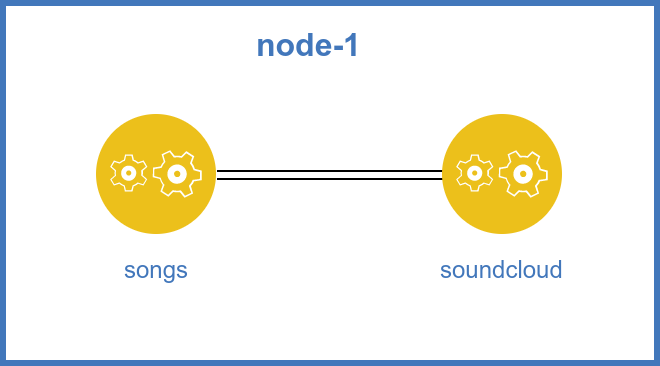
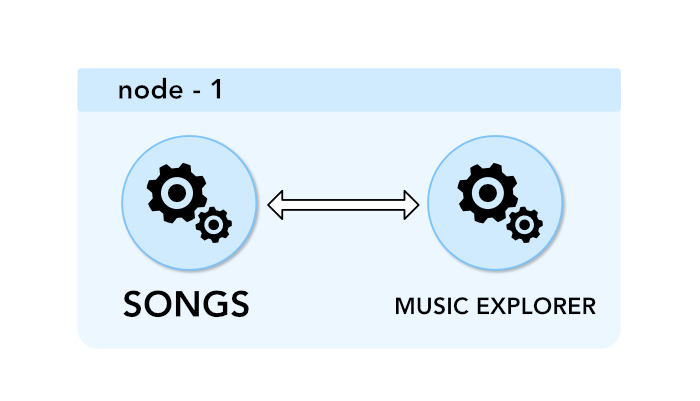
added final thoughts

diff --git a/presentation/index.js b/presentation/index.js
@@ -32,7 +32,6 @@ import { Diagram } from '../components';
 
 // Require CSS
 require('normalize.css');
-require('spectacle/lib/themes/default/index.css');
 
 const images = {
   molecules: require('../assets/8803.jpg'),
@@ -43,17 +42,28 @@ const images = {
   mono: require('../assets/mono.png'),
   showme: require('../assets/show-me.png'),
   distributed: require('../assets/distributed.png'),
-  whatIsThat: require('../assets/what-is-that.gif')
+  whatIsThat: require('../assets/what-is-that.gif'),
+  musicExplorer: require('../assets/music-explorer.png'),
+  gateway: require('../assets/gateway.png'),
+  take: require('../assets/take.png'),
+  desc: require('../assets/desc.png')
 };
 
 preloader(images);
 
-const theme = createTheme();
+const theme = createTheme(null, {
+  global: {
+    body: { fontSize: '2em' },
+    '_:-moz-tree-row(hover), .spectacle-deck': {
+      perspective: '1200px'
+    }
+  }
+});
 
 export default class Presentation extends React.Component {
   render() {
     return (
-      <Deck transition={['slide']} transitionDuration={300} theme={theme} progress="none">
+      <Deck transition={['slide']} transitionDuration={300} theme={theme} progress="none" contentWidth={1200}>
         <Slide bgColor="white">
           <Image src={images.banner} />
         </Slide>
@@ -106,13 +116,13 @@ export default class Presentation extends React.Component {
           lang="js"
           code={require('raw-loader!../assets/code2.example')}
           ranges={[
-            { loc: [0, 12], title: 'HTTP Service' },
-            { loc: [2, 3], note: 'Find songs related with the user query search' },
-            { loc: [4, 5], note: 'Return a specific HTTP response' },
-            { loc: [7, 12], note: 'We export a function to run a HTTP server' },
-            { loc: [0, 12], title: 'What if I need a `search by artist` service?' },
-            { loc: [2, 3], title: 'What is `MusicExplorer`?' },
-            { loc: [2, 3], title: 'What if is another service?' }
+            { loc: [0, 17], title: 'HTTP Service' },
+            { loc: [2, 6], note: 'Find songs related with the user query search' },
+            { loc: [7, 8], note: 'Return a specific HTTP response' },
+            { loc: [10, 15], note: 'We export a function to run a HTTP server' },
+            { loc: [0, 17], title: 'What if I need a `search by artist` service?' },
+            { loc: [2, 6], title: 'What is `MusicExplorer`?' },
+            { loc: [2, 6], title: 'What if is another service?' }
           ]}
         />
         <Slide>
@@ -147,9 +157,10 @@ export default class Presentation extends React.Component {
           <Heading size={3} caps>Concepts</Heading>
           <List>
             <Appear><ListItem>Service <i className="em em-package" /></ListItem></Appear>
-            <Appear><ListItem>Node <i className="em em-bag" /></ListItem></Appear>
+            <Appear><ListItem>Node <i className="em em-ghost" /></ListItem></Appear>
             <Appear><ListItem>Service Broker <i className="em em-godmode" /></ListItem></Appear>
             <Appear><ListItem>Transporter <i className="em em-electric_plug" /></ListItem></Appear>
+            <Appear><ListItem>Gateway <i className="em em-door" /></ListItem></Appear>
           </List>
         </Slide>
         <Slide>
@@ -161,18 +172,26 @@ export default class Presentation extends React.Component {
           lang="js"
           code={require('raw-loader!../assets/code3.example')}
           ranges={[
-            { loc: [0, 64], title: 'The `Songs` Service' },
+            { loc: [0, 49], title: 'The `Songs` Service' },
             { loc: [0, 1], title: 'It\'s just a module' },
             { loc: [1, 2], note: 'With a name' },
-            { loc: [3, 9], note: 'With an object where you can store every settings/options to your service' },
-            { loc: [10, 25], note: 'Define your actions handler' },
-            { loc: [17, 21], note: 'We are calling an action from other service: soundcloud' },
-            { loc: [26, 35], note: 'You can subscribe to events' },
-            { loc: [36, 42], note: 'You can also create private functions in the Service' },
-            { loc: [43, 63], title: 'There are some lifecycle service events' },
-            { loc: [43, 49], note: 'Fired when the service instance created' },
-            { loc: [50, 56], note: 'Fired when `broker.start()` called' },
-            { loc: [57, 63], note: 'Fired when `broker.stop()` called' }
+            { loc: [3, 6], note: 'With an object where you can store every settings/options to your service' },
+            { loc: [7, 22], note: 'Define your actions handler' },
+            { loc: [8, 9], note: 'Identified with a name' },
+            { loc: [8, 9], note: 'We can use async/await!' },
+            { loc: [8, 9], note: 'ctx is a context instance which contains all the request information' },
+            { loc: [9, 10], note: 'We extract the value params' },
+            { loc: [11, 18], note: 'We are calling an action from other service: musicExplorer' },
+            { loc: [11, 18], note: 'The response is a promise' },
+            { loc: [12, 13], note: '<service-name>.<action-name>' },
+            { loc: [13, 17], note: 'We pass the params to the remote action' },
+            { loc: [19, 20], note: 'Return the songs' },
+            { loc: [23, 30], note: 'You can subscribe to events' },
+            { loc: [31, 34], note: 'You can also create private functions in the Service' },
+            { loc: [35, 49], title: 'There are some lifecycle service events' },
+            { loc: [35, 38], note: 'Fired when the service instance created' },
+            { loc: [39, 42], note: 'Fired when `broker.start()` called' },
+            { loc: [43, 46], note: 'Fired when `broker.stop()` called' }
           ]}
         />
         <Slide>
@@ -191,25 +210,38 @@ export default class Presentation extends React.Component {
           lang="js"
           code={require('raw-loader!../assets/code4.example')}
           ranges={[
-            { loc: [0, 11], title: 'Service Broker' },
-            { loc: [2, 6], title: 'It\'s the main component of Moleculer' },
-            { loc: [2, 6], title: 'It handles services & events, calls actions and communicates with remote nodes.' },
-            { loc: [2, 6], title: 'You need to create an instance of ServiceBroker on every node.' },
+            { loc: [0, 17], title: 'Service Broker' },
+            { loc: [0, 1], note: 'It\'s the main component of Moleculer' },
+            { loc: [0, 1], note: 'It handles services & events, calls actions and communicates with remote nodes.' },
+            { loc: [2, 6], note: 'You need to create an instance of ServiceBroker on every node.' },
             { loc: [3, 4], note: 'It identifies a node in a cluster when there are many nodes' },
             { loc: [4, 5], note: 'Logger class. In production you can use an external logger e.g. winston or pino' },
-            { loc: [7, 8], note: 'We create the `songs` service' },
-            { loc: [8, 9], note: 'We create the `musicExplorer` service' },
-            { loc: [9, 11], note: 'Start the node instance' }
+            { loc: [7, 10], note: 'We load the `songs` service' },
+            { loc: [11, 14], note: 'We load the `musicExplorer` service' },
+            { loc: [15, 17], note: 'Start the node instance' }
           ]}
         />
         <Slide>
-          <Heading size={3} caps>Transporter</Heading>
-          <List>
-            <Appear><ListItem>communicates with other nodes</ListItem></Appear>
-            <Appear><ListItem>It transfers events, calls requests, processes responses</ListItem></Appear>
-            <Appear><ListItem>If a service is running on multiple instances on different nodes, the requests will be load-balanced between nodes</ListItem></Appear>
-          </List>
-          <Appear><Image src={images.distributed} /></Appear>
+          <Layout>
+            <Fill>
+              <Heading size={3} caps>Transporter</Heading>
+              <List>
+                <Appear><ListItem>communicates with other nodes</ListItem></Appear>
+                <Appear><ListItem>It transfers events, calls requests, processes responses</ListItem></Appear>
+                <Appear><ListItem>If a service is running on multiple instances on different nodes, the requests will be load-balanced between nodes</ListItem></Appear>
+              </List>
+            </Fill>
+            <Fill>
+              <Heading size={3} caps>Gateway</Heading>
+              <List>
+                <Appear><ListItem>Use it to publish your services</ListItem></Appear>
+              </List>
+            </Fill>
+          </Layout>
+        </Slide>
+        <Slide>
+          <Heading size={3} caps>What we got</Heading>
+          <Image src={images.gateway} />
         </Slide>
         <Slide>
           <Heading size={3} caps>Show me the code</Heading>
@@ -217,16 +249,35 @@ export default class Presentation extends React.Component {
         </Slide>
         <Slide>
           <Heading size={3} caps>Take aways!</Heading>
-          <List>
-            <Appear><ListItem>Hay tres conceptos en arq orientada a microservicios: Service, Service Broker, Transporter</ListItem></Appear>
-            <Appear><ListItem>microservicio como un node module</ListItem></Appear>
-            <Appear><ListItem>las fronteras importan</ListItem></Appear>
-            <Appear><ListItem>escalabilidad + tolerante a fallos + autonomia</ListItem></Appear>
-            <Appear><ListItem>time * problem/solution = happiness</ListItem></Appear>
-          </List>
+          <Layout>
+            <Fill><Image src={images.take} /></Fill>
+            <Fill>
+              <List>
+                <Appear><ListItem>We'll always have: Service, Node, Service Broker, Transporter and Gateway</ListItem></Appear>
+                <Appear><ListItem>A microservice can be just a module</ListItem></Appear>
+                <Appear><ListItem>The frontier of our architecture matter</ListItem></Appear>
+                <Appear><ListItem>fault tolerant => easy deploy</ListItem></Appear>
+                <Appear><ListItem>time is precious, try to focus on your problem and the solution</ListItem></Appear>
+              </List>
+            </Fill>
+          </Layout>
         </Slide>
         <Slide>
-          <Heading size={3} caps>TIME</Heading>
+          <Heading size={2} caps>THE FUTURE IS DECENTRALIZED</Heading>
+          <Image src={images.desc} />
+        </Slide>
+        <Slide>
+          <Heading size={2} caps>Thanks</Heading>
+          <Layout>
+            <Fill>
+              <List>
+                <ListItem>twitter: @tinchoz49</ListItem>
+                <ListItem>github: tinchoz49</ListItem>
+                <ListItem>http://moleculer.services/</ListItem>
+              </List>
+            </Fill>
+            <Fill><Image src="https://pbs.twimg.com/profile_images/881389025478705152/T45s5fAL_400x400.jpg"/></Fill>
+          </Layout>
         </Slide>
       </Deck>
     );
